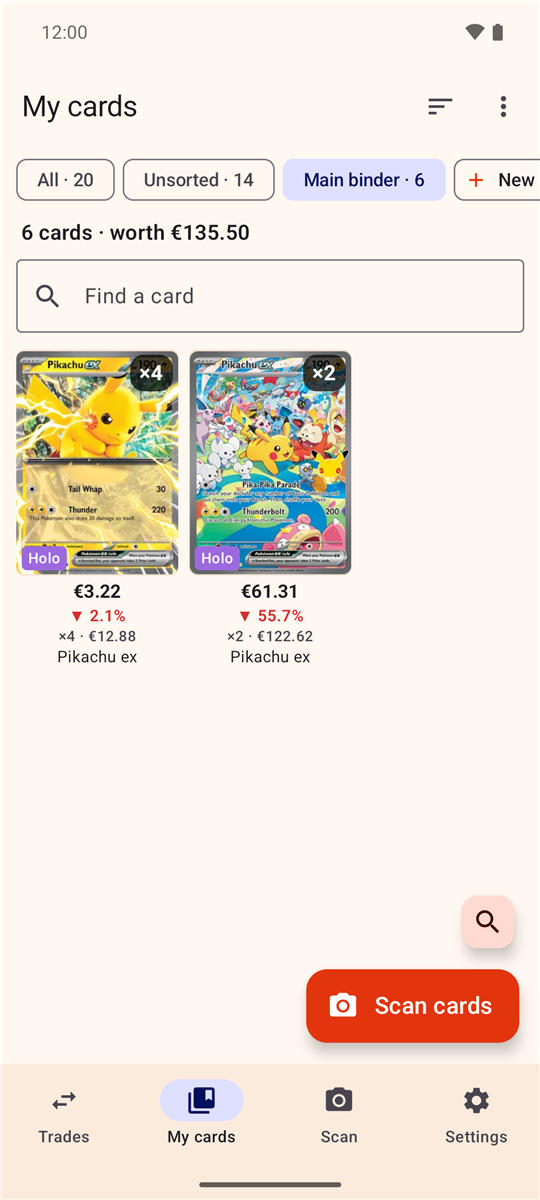
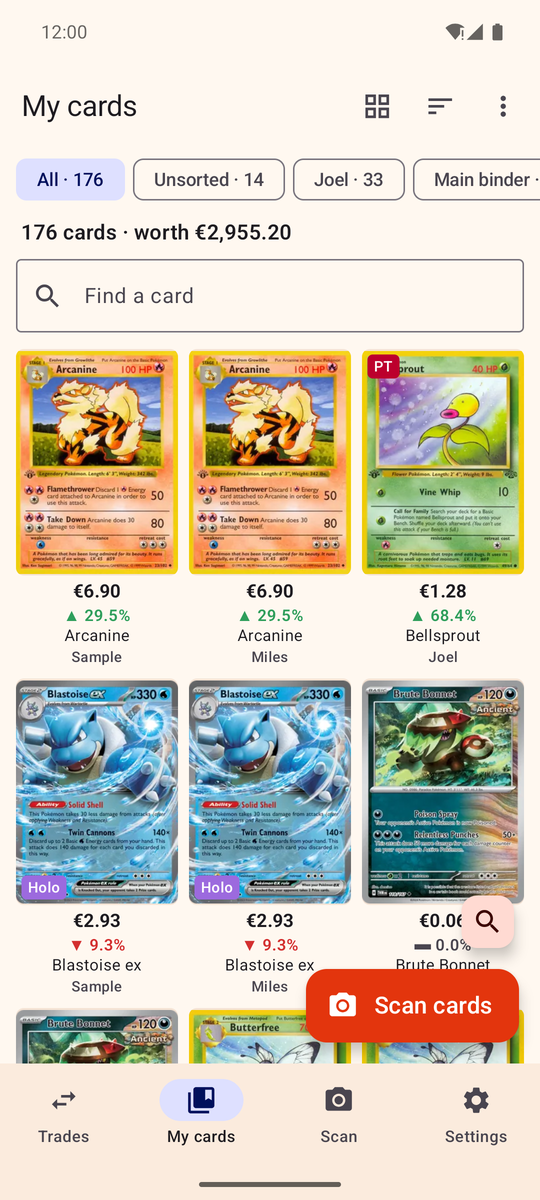
README: new screenshots for 1.7
My cards as big pictures, list and compact views.

diff --git a/README.md b/README.md
@@ -5,7 +5,11 @@ trade is fair (Cardmarket prices, €), and keep "My cards" (the collection) up 
 
 | Trade | Search | Card | My cards |
 |:---:|:---:|:---:|:---:|
-| <img src="docs/screenshots/trade.png" width="200" alt="A trade with the value of both sides compared"> | <img src="docs/screenshots/search.png" width="200" alt="Search results as a grid of card pictures"> | <img src="docs/screenshots/card.png" width="200" alt="A card with its Cardmarket prices"> | <img src="docs/screenshots/collection.png" width="200" alt="The collection"> |
+| <img src="docs/screenshots/trade.png" width="200" alt="A trade with the value of both sides compared"> | <img src="docs/screenshots/search.png" width="200" alt="Search results as a grid of card pictures"> | <img src="docs/screenshots/card.png" width="200" alt="A card with its Cardmarket prices"> | <img src="docs/screenshots/collection.png" width="200" alt="My cards as big card pictures"> |
+
+| My cards: list | My cards: compact |
+|:---:|:---:|
+| <img src="docs/screenshots/collection-list.png" width="200" alt="My cards as a list with small pictures, set, number and price"> | <img src="docs/screenshots/collection-compact.png" width="200" alt="My cards as one text line per card"> |
 
 ## Install
 Copy `PokeTrader-1.7.apk` to the phone and open it (allow "install unknown apps" for your file manager/browser when
